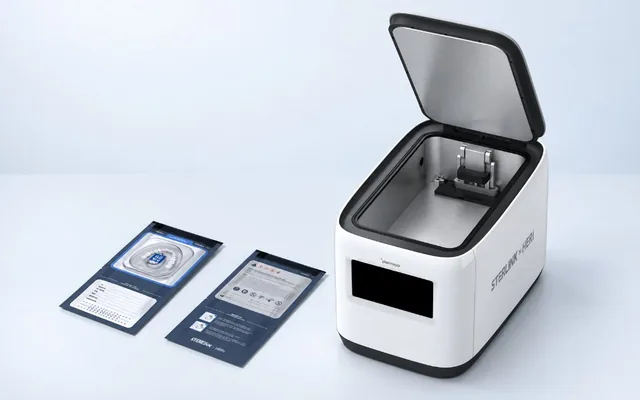
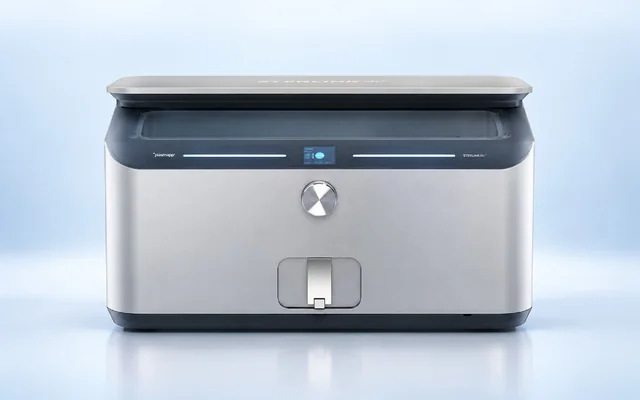
Replace the sterile packaging photo with the STERLINK unit.

diff --git a/index.html b/index.html
@@ -179,7 +179,7 @@
                   type="image/webp"
                   srcset="assets/images/why/sterile-640.webp 640w, assets/images/why/sterile-1024.webp 1024w"
                   sizes="(max-width: 1024px) min(560px, calc(100vw - 48px)), min(480px, 42vw)">
-                <img src="assets/images/why/sterile.jpg" alt="Plasma sterilizer and sterile packed restoration" width="1024" height="640" loading="lazy" decoding="async">
+                <img src="assets/images/why/sterile.jpg" alt="STERLINK plasma sterilizer" width="1024" height="640" loading="lazy" decoding="async">
               </picture>
             </div>
           </article>
